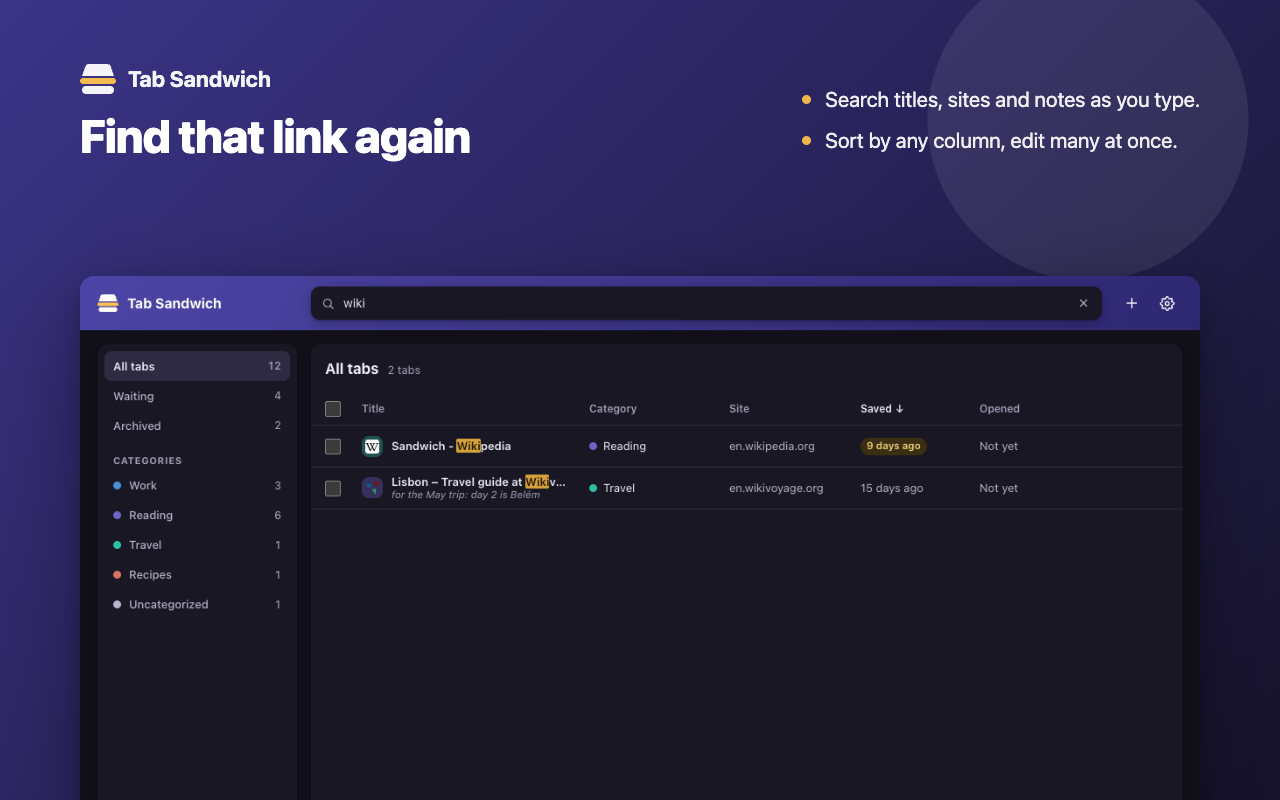
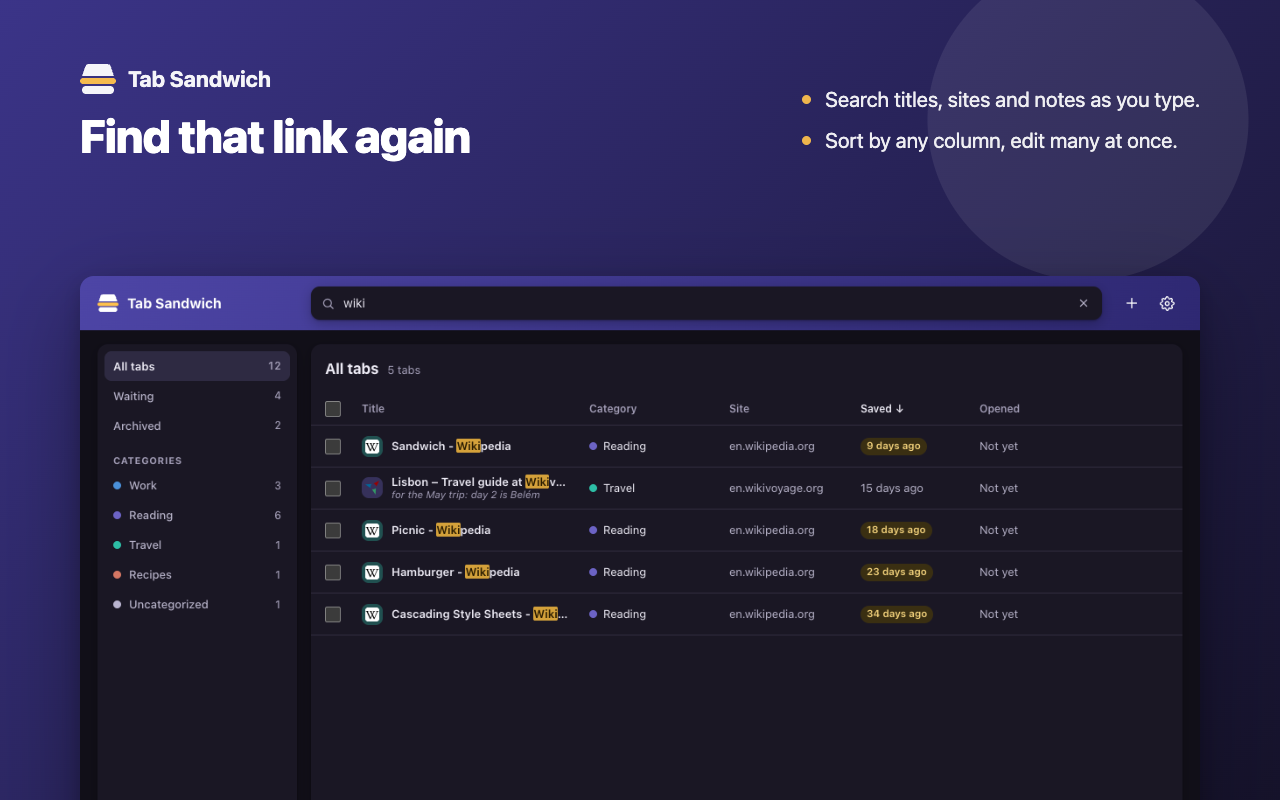
Give the English Store library search five results, like the others
English's three extra Reading tabs were web.dev, CSS-Tricks and A List
Apart, so searching "wiki" in screenshot 3 found only two tabs where every
other language finds five. They're now the same Wikipedia articles the
other languages use (Cascading Style Sheets, Picnic, Hamburger), with the
same ages. Screenshots 3 and 5 re-rendered.

diff --git a/tests/store/samples.ts b/tests/store/samples.ts
@@ -82,9 +82,9 @@ const en: Sample = {
         { title: "Stack Overflow", url: "https://stackoverflow.com/", daysAgo: 1 },
     ],
     extras: [
-        { title: "web.dev: Learn CSS", url: "https://web.dev/learn/css", category: "reading", daysAgo: 34 },
-        { title: "CSS-Tricks: A Complete Guide to Grid", url: "https://css-tricks.com/snippets/css/complete-guide-grid/", category: "reading", daysAgo: 18 },
-        { title: "A List Apart", url: "https://alistapart.com/", category: "reading", daysAgo: 23 },
+        { title: "Cascading Style Sheets - Wikipedia", url: "https://en.wikipedia.org/wiki/Cascading_Style_Sheets", category: "reading", daysAgo: 34 },
+        { title: "Picnic - Wikipedia", url: "https://en.wikipedia.org/wiki/Picnic", category: "reading", daysAgo: 18 },
+        { title: "Hamburger - Wikipedia", url: "https://en.wikipedia.org/wiki/Hamburger", category: "reading", daysAgo: 23 },
         { title: "Google Flights", url: "https://www.google.com/travel/flights", category: "travel", daysAgo: 40, archivedDaysAgo: 6 },
         { title: "The Verge", url: "https://www.theverge.com/", category: "reading", daysAgo: 30, archivedDaysAgo: 2 },
     ],
